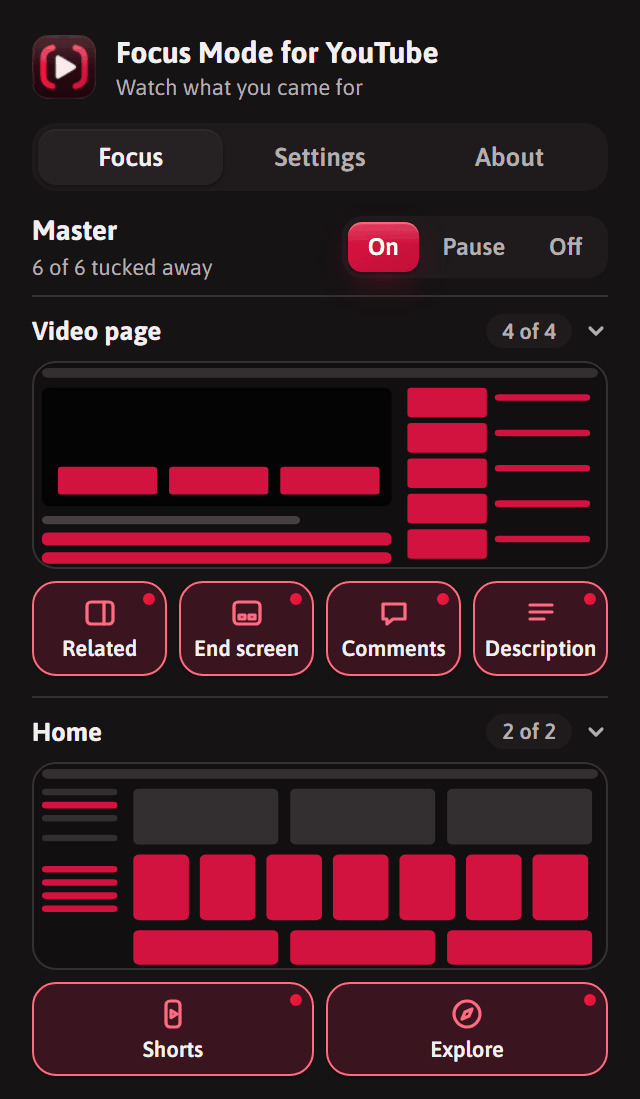
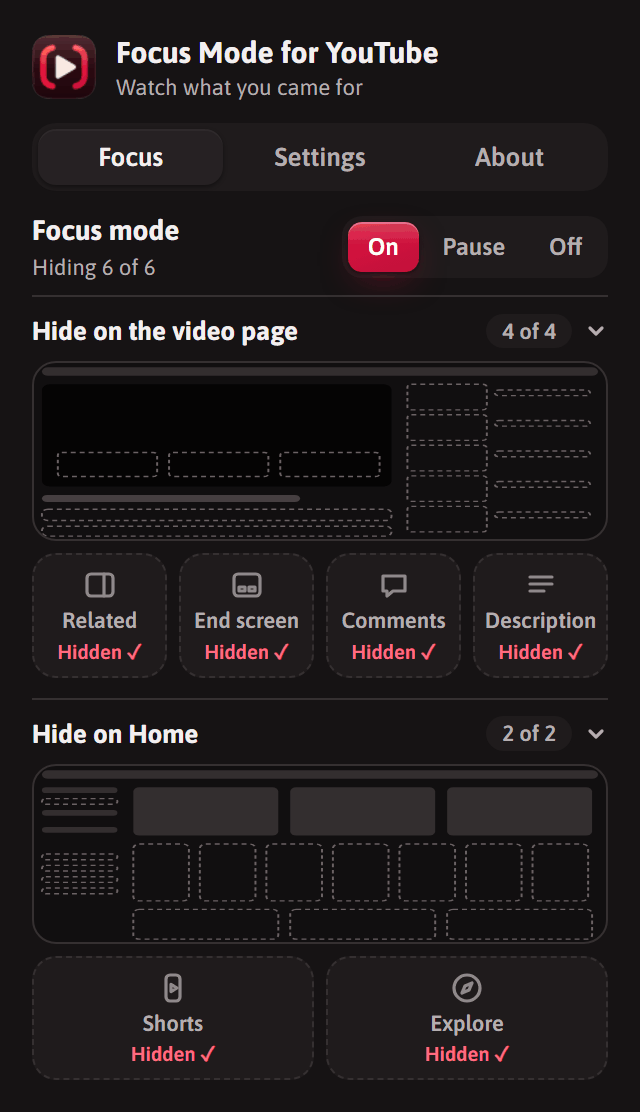
Scrollbar fix (3.1.2) and clearer popup states (#7)
## 3.1.2 fix
- With related videos tucked away, the page no longer scrolls sideways.
YouTube's ambient glow is clipped at the window's edge. Checked in
Chrome.

## Clearer popup states (in the CHANGELOG as Unreleased)
- A tucked-away part goes quiet and dashed, and its tile says **Hidden
✓**. Parts you keep stay solid and say **Shown**.
- **Master** is now **Focus mode** ("Hiding 4 of 6"). Headings say "Hide
on the video page" and "Hide on Home".
- The popup screenshots, share image, README, site and SAFETY.md are
updated.

---------

diff --git a/extension/popup.css b/extension/popup.css
@@ -12,7 +12,7 @@
   Neutral surfaces with a wine accent; every colour pair passes WCAG AA.
   --accent fills carry white text at 5.3:1; --accent-line marks "on" outlines (lighter in dark mode);
   --focus is indigo so keyboard focus never looks like "on".
-  --map-* draw the page maps: YouTube's neutral greys, with tucked-away parts in --accent.
+  --map-* draw the page maps: YouTube's neutral greys; tucked-away parts become dashed outlines (--map-dash).
 */
 :root {
   color-scheme: light;
@@ -34,8 +34,7 @@
   --map-player: #2b2526;
   --map-on-player: #5e5658;
   --line-strong: #d6d0d1;
-  --tile-on: #fdedf0;
-  --tile-on-hover: #fbe3e8;
+  --map-dash: #b9b1b3;
   --accent-line: #d3133f;
   --brand-from: #ff1a35;
   --brand-to: #d3133f;
@@ -66,8 +65,7 @@
     --map-player: #050404;
     --map-on-player: #403a3b;
     --line-strong: #4a4345;
-    --tile-on: #3a1520;
-    --tile-on-hover: #451825;
+    --map-dash: #6b6264;
     --accent-line: #ff6b80;
     --shadow-xs: 0 1px 1px rgba(0, 0, 0, .30);
     --shadow-sm: 0 1px 2px rgba(0, 0, 0, .40), inset 0 1px 0 rgba(255, 255, 255, .04);
@@ -93,8 +91,7 @@
   --map-player: #050404;
   --map-on-player: #403a3b;
   --line-strong: #4a4345;
-  --tile-on: #3a1520;
-  --tile-on-hover: #451825;
+  --map-dash: #6b6264;
   --accent-line: #ff6b80;
   --shadow-xs: 0 1px 1px rgba(0, 0, 0, .30);
   --shadow-sm: 0 1px 2px rgba(0, 0, 0, .40), inset 0 1px 0 rgba(255, 255, 255, .04);
@@ -358,7 +355,7 @@ button { font: inherit; color: inherit; }
 
 .page.closed .page-inner { visibility: hidden; }
 
-/* Page maps: a sketch of the real page; tucked-away parts are red and can be clicked */
+/* Page maps: a sketch of the real page; tucked-away parts are dashed outlines and can be clicked */
 
 .map { margin: 2px 0 6px; }
 
@@ -366,7 +363,7 @@ button { font: inherit; color: inherit; }
 .map svg {
   display: block;
   width: 100%;
-  height: 104px;
+  height: 90px;
   border: 1px solid var(--line);
   border-radius: 12px;
   background: var(--map-bg);
@@ -377,8 +374,9 @@ button { font: inherit; color: inherit; }
 .map .player { fill: var(--map-player); }
 .map .on-player { fill: var(--map-on-player); }
 .map .zone { cursor: pointer; }
-.map .zone .part { transition: fill .15s; }
-.map .zone.on .part { fill: var(--accent); }
+.map .zone .part { fill: var(--map-strong); transition: fill .15s; }
+.map .zone .part.on-player { fill: var(--map-on-player); }
+.map .zone.on .part { fill: transparent; stroke: var(--map-dash); stroke-width: 1; stroke-dasharray: 2.5 2; }
 .map .zone .box { fill: transparent; stroke: none; }
 .map .zone.hl .box,
 .map .zone:hover .box {
@@ -431,33 +429,37 @@ button { font: inherit; color: inherit; }
   color: var(--text);
 }
 
+/* Shown parts stay solid. A tucked-away part goes quiet and dashed, like the space it leaves, and says so. */
+.tile[aria-pressed="false"] { color: var(--text); }
+
 .tile[aria-pressed="true"] {
-  background: var(--tile-on);
-  border-color: var(--accent-line);
-  color: var(--text);
+  background: var(--soft);
+  border-style: dashed;
+  box-shadow: none;
 }
 
-.tile[aria-pressed="true"] svg {
-  stroke: var(--accent-text);
-}
+.tile[aria-pressed="true"] svg { opacity: .75; }
 
 .tile[aria-pressed="true"]:hover {
-  background: var(--tile-on-hover);
+  background: var(--soft);
+  border-color: var(--line-strong);
 }
 
-/* A small "tucked away" dot, so "on" never relies on colour alone */
-.tile[aria-pressed="true"]::after {
-  content: "";
-  position: absolute;
-  top: 5px;
-  right: 5px;
-  width: 6px;
-  height: 6px;
-  border-radius: 50%;
-  background: linear-gradient(135deg, var(--brand-from), var(--brand-to));
+.tile-state {
+  min-height: 12px;
+  font-size: 10px;
+  font-weight: 500;
+  color: var(--muted);
 }
 
-/* With Master off or paused, the pages show YouTube as usual */
+.tile[aria-pressed="true"] .tile-state {
+  font-weight: 600;
+  color: var(--accent-text);
+}
+
+.tile-state .tick { font-weight: 800; }
+
+/* With Focus mode off or paused, the pages show YouTube as usual */
 .pages.inactive .map,
 .pages.inactive .tiles {
   opacity: .45;

diff --git a/extension/popup.js b/extension/popup.js
@@ -23,7 +23,7 @@ const PAGES = {
 };
 
 // Page maps: block sketches of YouTube's layout. Areas a switch controls are "zones";
-// they turn red while tucked away, and clicking them flips the switch.
+// a tucked-away zone turns into a dashed outline, like the empty space it leaves, and clicking it flips the switch.
 
 const R = (x, y, w, h, rx, cls = "el") => `<rect class="${cls}" x="${x}" y="${y}" width="${w}" height="${h}" rx="${rx}"/>`;
 const zone = (key, parts, boxes) =>
@@ -92,7 +92,10 @@ for (const [page, switches] of Object.entries(PAGES)) {
     tile.innerHTML = `<svg viewBox="0 0 16 16" aria-hidden="true">${s.icon}</svg>`;
     const label = document.createElement("span");
     label.textContent = s.label;
-    tile.append(label);
+    // What's happening on YouTube, in words, so the state never relies on colour or shape alone
+    const status = document.createElement("small");
+    status.className = "tile-state";
+    tile.append(label, status);
     tiles.append(tile);
   }
 }
@@ -173,7 +176,7 @@ function render() {
 
   const count = YTND.countOn(state);
   document.getElementById("masterStatus").textContent =
-    mode === "on" ? `${count} of ${YTND.FEATURES.length} tucked away`
+    mode === "on" ? `Hiding ${count} of ${YTND.FEATURES.length}`
       : mode === "pause" ? `Paused, ${YTND.backAt(state.pausedUntil)}`
         : "YouTube as usual";
   document.getElementById("pauseRow").hidden = mode !== "pause";
@@ -184,7 +187,20 @@ function render() {
     const on = switches.filter(s => state[s.key]).length;
     document.querySelector(`[data-count="${page}"]`).textContent = `${on} of ${switches.length}`;
   }
-  document.querySelectorAll(".tile").forEach(tile => tile.setAttribute("aria-pressed", String(Boolean(state[tile.dataset.k]))));
+  document.querySelectorAll(".tile").forEach(tile => {
+    const hidden = Boolean(state[tile.dataset.k]);
+    tile.setAttribute("aria-pressed", String(hidden));
+    const status = tile.querySelector(".tile-state");
+    status.textContent = hidden ? "Hidden" : "Shown";
+    if (hidden) {
+      // The tick is for the eye; screen readers already hear "pressed"
+      const tick = document.createElement("span");
+      tick.className = "tick";
+      tick.setAttribute("aria-hidden", "true");
+      tick.textContent = " ✓";
+      status.append(tick);
+    }
+  });
   document.querySelectorAll(".zone").forEach(z => z.classList.toggle("on", Boolean(state[z.dataset.k])));
 
   document.getElementById("badge").checked = Boolean(state.badge);

diff --git a/extension/popup.html b/extension/popup.html
@@ -26,7 +26,7 @@
     <section class="tab-panel" role="tabpanel" id="panel-focus" aria-labelledby="tab-focus">
       <div class="status-row">
         <div>
-          <div id="masterLabel" class="status-title">Master</div>
+          <div id="masterLabel" class="status-title">Focus mode</div>
           <div id="masterStatus" class="status"></div>
         </div>
         <div class="segmented master-seg" role="radiogroup" aria-labelledby="masterLabel">
@@ -46,7 +46,7 @@
       <div id="pages" class="pages">
         <section class="page" data-page="watch">
           <button type="button" class="page-head" aria-expanded="true" aria-controls="page-watch">
-            <span class="page-name">Video page</span>
+            <span class="page-name">Hide on the video page</span>
             <span class="page-count"><span data-count="watch"></span><svg class="chevron" viewBox="0 0 12 12" aria-hidden="true"><path d="M3 4.5 6 7.5 9 4.5"/></svg></span>
           </button>
           <div class="page-body" id="page-watch">
@@ -59,7 +59,7 @@
 
         <section class="page" data-page="home">
           <button type="button" class="page-head" aria-expanded="true" aria-controls="page-home">
-            <span class="page-name">Home</span>
+            <span class="page-name">Hide on Home</span>
             <span class="page-count"><span data-count="home"></span><svg class="chevron" viewBox="0 0 12 12" aria-hidden="true"><path d="M3 4.5 6 7.5 9 4.5"/></svg></span>
           </button>
           <div class="page-body" id="page-home">

diff --git a/fa/index.html b/fa/index.html
@@ -152,7 +152,7 @@
           <div>
             <div class="control">
               <strong>⏸ هر وقت YouTube مثل همیشه را خواستید، مکث کنید</strong>
-              <p>کلید اصلی (Master) سه حالت دارد: On (روشن)، Pause (مکث) و Off (خاموش). میتوانید برای ۱۵ دقیقه، یک ساعت یا تا فردا صبح مکث کنید؛ بعد خودش دوباره روشن میشود.</p>
+              <p>Focus mode (حالت تمرکز) سه حالت دارد: On (روشن)، Pause (مکث) و Off (خاموش). میتوانید برای ۱۵ دقیقه، یک ساعت یا تا فردا صبح مکث کنید؛ بعد خودش دوباره روشن میشود.</p>
             </div>
             <div class="control">
               <strong>🫧 نشان آرامِ گوشه</strong>

diff --git a/extension/hide.css b/extension/hide.css
@@ -18,6 +18,15 @@ html:not([data-ytnd-off~="sidebar"]) ytd-watch-flexy #secondary:not(:has(
   display: none !important;
 }
 
+/*
+  With the right column gone, YouTube's ambient-mode glow around the player (a wide canvas)
+  sticks out past the window and adds a horizontal scrollbar. Clip it at the page's edge;
+  clip, unlike hidden, doesn't create a scroll box, so sticky parts of the page keep working.
+*/
+html:not([data-ytnd-off~="sidebar"]) ytd-watch-flexy {
+  overflow-x: clip !important;
+}
+
 /* Comments */
 html:not([data-ytnd-off~="comments"]) ytd-watch-flexy #comments {
   display: none !important;

diff --git a/index.html b/index.html
@@ -158,7 +158,7 @@
           <div>
             <div class="control">
               <strong>⏸ Pause when you want YouTube as usual</strong>
-              <p>Master has three settings: On, Pause and Off. Pause for 15 minutes, 1 hour or until tomorrow morning, and it comes back by itself.</p>
+              <p>Focus mode has three settings: On, Pause and Off. Pause for 15 minutes, 1 hour or until tomorrow morning, and it comes back by itself.</p>
             </div>
             <div class="control">
               <strong>🫧 A quiet corner badge</strong>

diff --git a/tests/extension.test.js b/tests/extension.test.js
@@ -225,6 +225,13 @@ const badgeText = win => {
     dom.window.close();
   }
 
+  // 12. With related videos tucked away, the ambient glow can't add a horizontal scrollbar
+  {
+    const css = read("hide.css");
+    check("hide.css: clips the page sideways while related videos are tucked away",
+      /html:not\(\[data-ytnd-off~="sidebar"\]\) ytd-watch-flexy \{\s*overflow-x: clip !important;/.test(css));
+  }
+
   console.log(failures ? `\n${failures} FAILED` : "\nALL PASSED");
   process.exit(failures ? 1 : 0);
 })();

diff --git a/README.fa.md b/README.fa.md
@@ -110,7 +110,7 @@
 
 ## 🎛 کنترلها
 
-**⏸ هر وقت YouTube مثل همیشه را خواستید، مکث کنید.** کلید اصلی (Master) سه حالت دارد: On (روشن)، Pause (مکث) و Off (خاموش). میتوانید برای ۱۵ دقیقه، یک ساعت یا تا فردا صبح مکث کنید؛ بعد خودش دوباره روشن میشود.
+**⏸ هر وقت YouTube مثل همیشه را خواستید، مکث کنید.** Focus mode (حالت تمرکز) سه حالت دارد: On (روشن)، Pause (مکث) و Off (خاموش). میتوانید برای ۱۵ دقیقه، یک ساعت یا تا فردا صبح مکث کنید؛ بعد خودش دوباره روشن میشود.
 
 **🫧 نشان آرامِ گوشه.** نشان کوچکی در گوشهٔ پایین سمت چپ YouTube میگوید چه چیزهایی کنار رفتهاند و دکمهای هم برای ۱۵ دقیقه مکث دارد. تا موس را رویش نبرید کمرنگ میماند و روزی فقط یک بار خودش را نشان میدهد. با ✕ آن را میبندید و چند ثانیه فرصت دارید تا **Undo (برگرداندن)** را بزنید. از پنجرهٔ افزونه هم میشود آن را خاموش کرد.
 

diff --git a/SAFETY.md b/SAFETY.md
@@ -6,7 +6,7 @@
 
 | What | Why |
 |---|---|
-| **`storage` permission** | Saves your settings: the Master switch, the six section switches, a pause end time, the corner badge switch, and Light/Dark/System. It also remembers the date the badge last showed itself, so it does that only once a day. |
+| **`storage` permission** | Saves your settings: the Focus mode switch, the six section switches, a pause end time, the corner badge switch, and Light/Dark/System. It also remembers the date the badge last showed itself, so it does that only once a day. |
 | **Site access: `https://www.youtube.com/*`** | Adds a stylesheet to YouTube pages that hides the sections you've switched on, and the small corner badge. |
 
 That's all. It doesn't ask for your tabs, browsing history, cookies, downloads or any other site.

diff --git a/README.md b/README.md
@@ -106,7 +106,7 @@ The Explore section of the left menu, and Home's "Explore more topics" row.
 
 ## 🎛 Controls
 
-**⏸ Pause when you want YouTube as usual.** The Master switch has three settings: On, Pause and Off. Pause for 15 minutes, 1 hour or until tomorrow morning. It comes back by itself.
+**⏸ Pause when you want YouTube as usual.** **Focus mode** has three settings: On, Pause and Off. Pause for 15 minutes, 1 hour or until tomorrow morning. It comes back by itself.
 
 **🫧 A quiet corner badge.** A small badge in the bottom-left corner of YouTube shows what's tucked away, with a button to pause for 15 minutes. It stays dim until you hover it and shows itself once a day. Close it with ✕ and you get a few seconds to **Undo**. You can also switch it off in the popup.
 

diff --git a/CHANGELOG.md b/CHANGELOG.md
@@ -2,6 +2,17 @@
 
 What changed in each release. The release page on GitHub shows the section for that version.
 
+## Unreleased
+
+### Improvements
+- Clearer switches in the popup. A tucked-away part now looks quiet and dashed, like the space it leaves, and its tile says "Hidden ✓". Parts you keep stay solid and say "Shown".
+- "Master" is now called "Focus mode", and it says "Hiding 4 of 6". The page headings say "Hide on the video page" and "Hide on Home".
+
+## 3.1.2
+
+### Fixes
+- With related videos tucked away, the page no longer scrolls sideways. YouTube's ambient glow around the player stuck out past the window.
+
 ## 3.1.1
 
 ### Improvements
